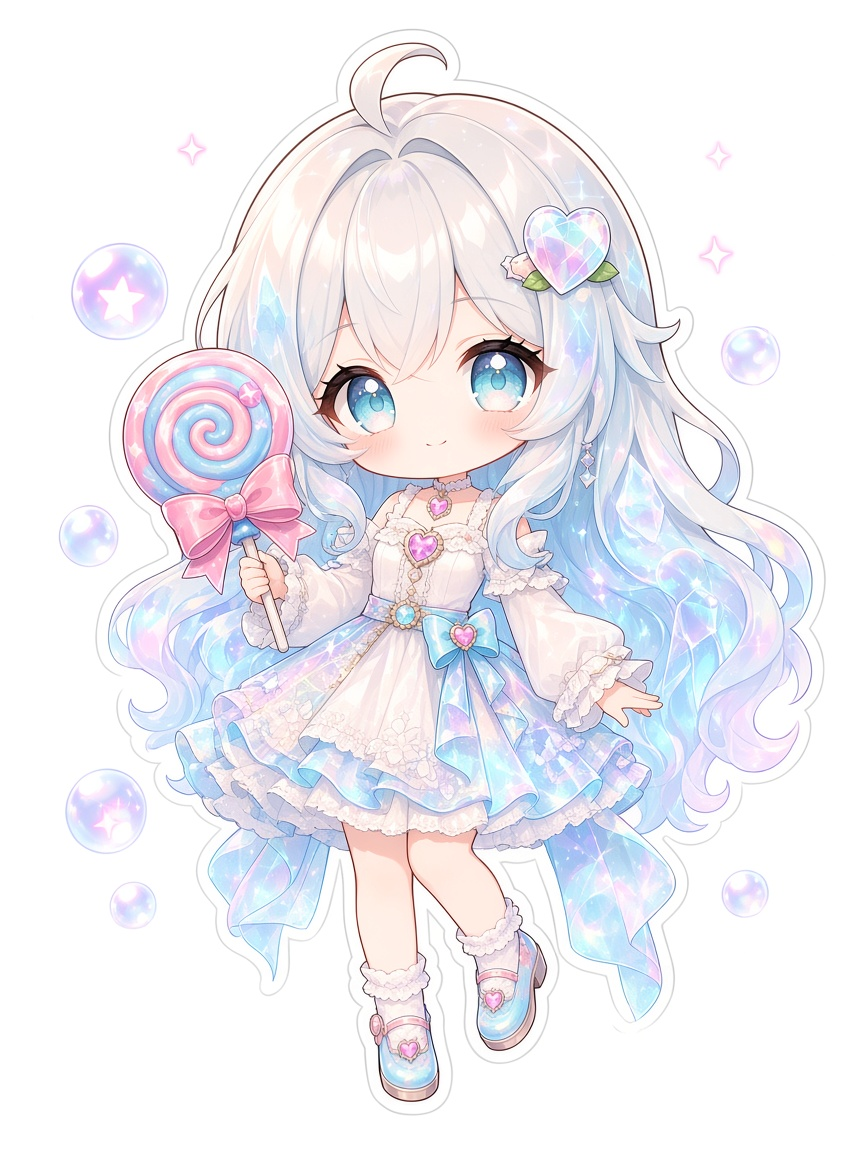
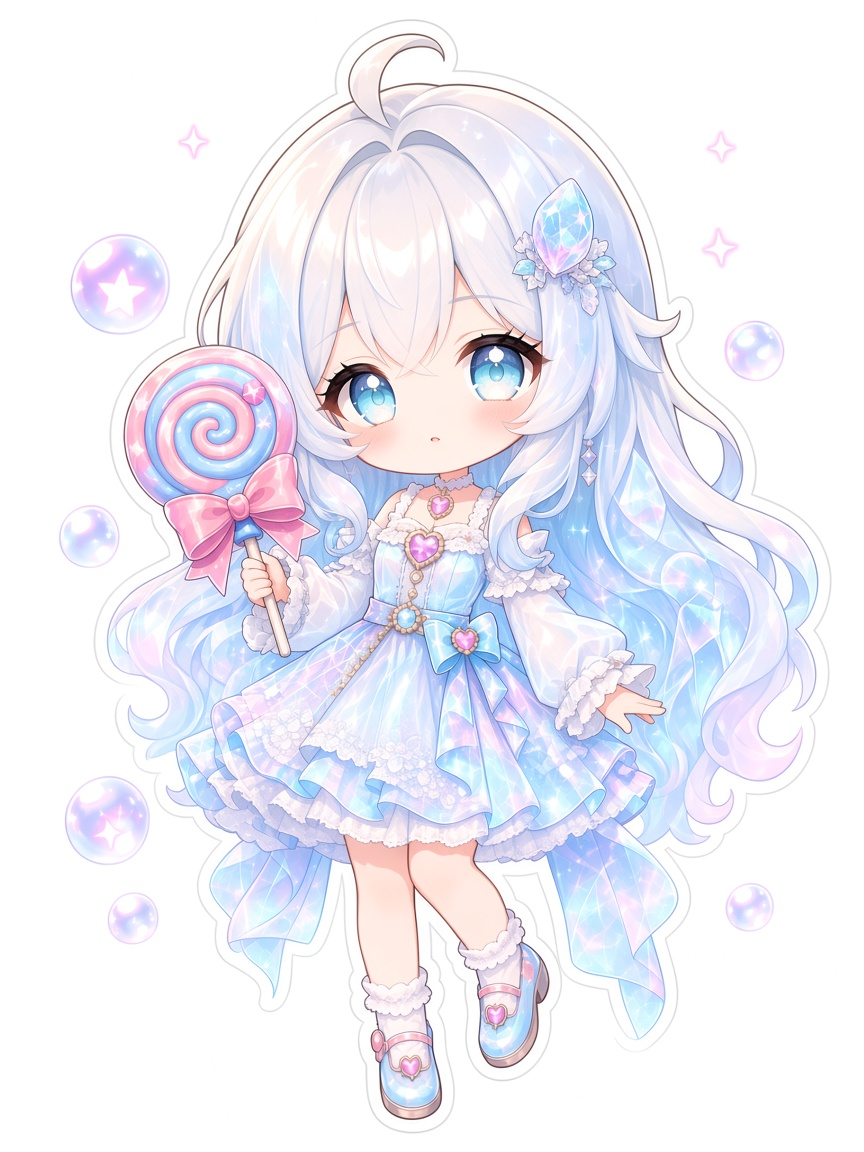
Differentiate fruit mascot makeup and expressions.
Update the style guide so each fruit keeps a unique face and mood, and refresh the three chibi girls: mischievous citrus wink, soft peach smile, cool dreamy berry look.

diff --git a/assets/fruits/STYLE_PROMPT.md b/assets/fruits/STYLE_PROMPT.md
@@ -6,9 +6,10 @@
 
 1. **画风**：商业向 Q 版贴纸 / 手游立绘，干净软描边（偏深棕，不要死黑粗线），软赛璐璐上色，整体明亮高饱和但不过曝。
 2. **比例**：大头小身，头约占全身 1/2～2/5；四肢短圆，手指简化。
-3. **脸**：正常人脸，禁止整颗水果当头。超大闪亮眼睛（多层高光：圆点 + 星芒），小鼻小嘴，淡腮红，表情甜美开朗。
+3. **脸**：正常人脸，禁止整颗水果当头。超大闪亮眼睛（多层高光），小鼻小嘴。同风格，但**每颗水果妆造与表情必须不同**，禁止全员同款甜笑。
 4. **构图**：全身立绘，居中，纯白底；角色与配饰可有白色描边贴纸感；无文字、无水印、无 logo。
 5. **人设逻辑**：角色是“水果精灵偶像”，不是 cos 头套。水果本体作为发饰 + 手持物保留材质；配色从水果主色延伸到发色与服装。
+6. **个性分化（必做）**：根据水果材质、配色、配饰气质设计不同性格，并落到眼型、眼影、腮红、唇形、表情和发型气场上。同系列可一眼认出是一套，但不能妆造表情复制粘贴。
 
 ## 华丽度（本次加码）
 
@@ -27,9 +28,14 @@ Premium commercial chibi anime girl sticker, plain white background, soft dark-b
 
 ## 单张补充句（按水果改）
 
-- **青果冻柑橘**：`mint-to-lime jelly hair sheen; cream-and-mint layered dress with translucent jelly-like organza that glows softly; green bats and mint four-point stars as familiars; holds a glossy translucent citrus.`
-- **粉晶体桃**：`soft pink hair with gemlike sheen; rose dress with crystal-facet trim and heart gems; holds ornate glass sundae coupe; stands on a pale-blue magic circle; soap bubbles.`
-- **蓝水晶草莓**：`platinum-to-aqua hair with water-crystal sheen; aqua jelly-crystal translucent dress with soft inner glow; rainbow sepal accents; holds pink-blue spiral lollipop with pink bow; soap bubbles with pink stars.`
+- **青果冻柑橘**：`mint-to-lime jelly hair sheen; cream-and-mint layered dress with translucent jelly-like organza that glows softly; green bats and mint four-point stars as familiars; holds a glossy translucent citrus. Personality: playful mischievous idol — cat-eye mint makeup, sharper outer lashes, asymmetric smile or wink, livelier pose.`
+- **粉晶体桃**：`soft pink hair with gemlike sheen; rose dress with crystal-facet trim and heart gems; holds ornate glass sundae coupe; stands on a pale-blue magic circle; soap bubbles. Personality: soft sweet dessert idol — round eyes, heavy soft blush, heart-shaped eye highlights, gentle closed-mouth smile.`
+- **蓝水晶草莓**：`platinum-to-aqua hair with water-crystal sheen; aqua jelly-crystal translucent dress with soft inner glow; rainbow sepal accents; holds pink-blue spiral lollipop with pink bow; soap bubbles with pink stars. Personality: cool dreamy candy spirit — slender clear aqua eyeshadow, pale lips, calm curious expression, quieter elegance.`
+
+## 妆造表情差异模板
+
+在英文底模后追加一句，例如：
+`Unique makeup and expression matching this fruit's personality: [性格]. Do not reuse the same smile/makeup as other fruit girls.`
 
 ## 禁止
 
